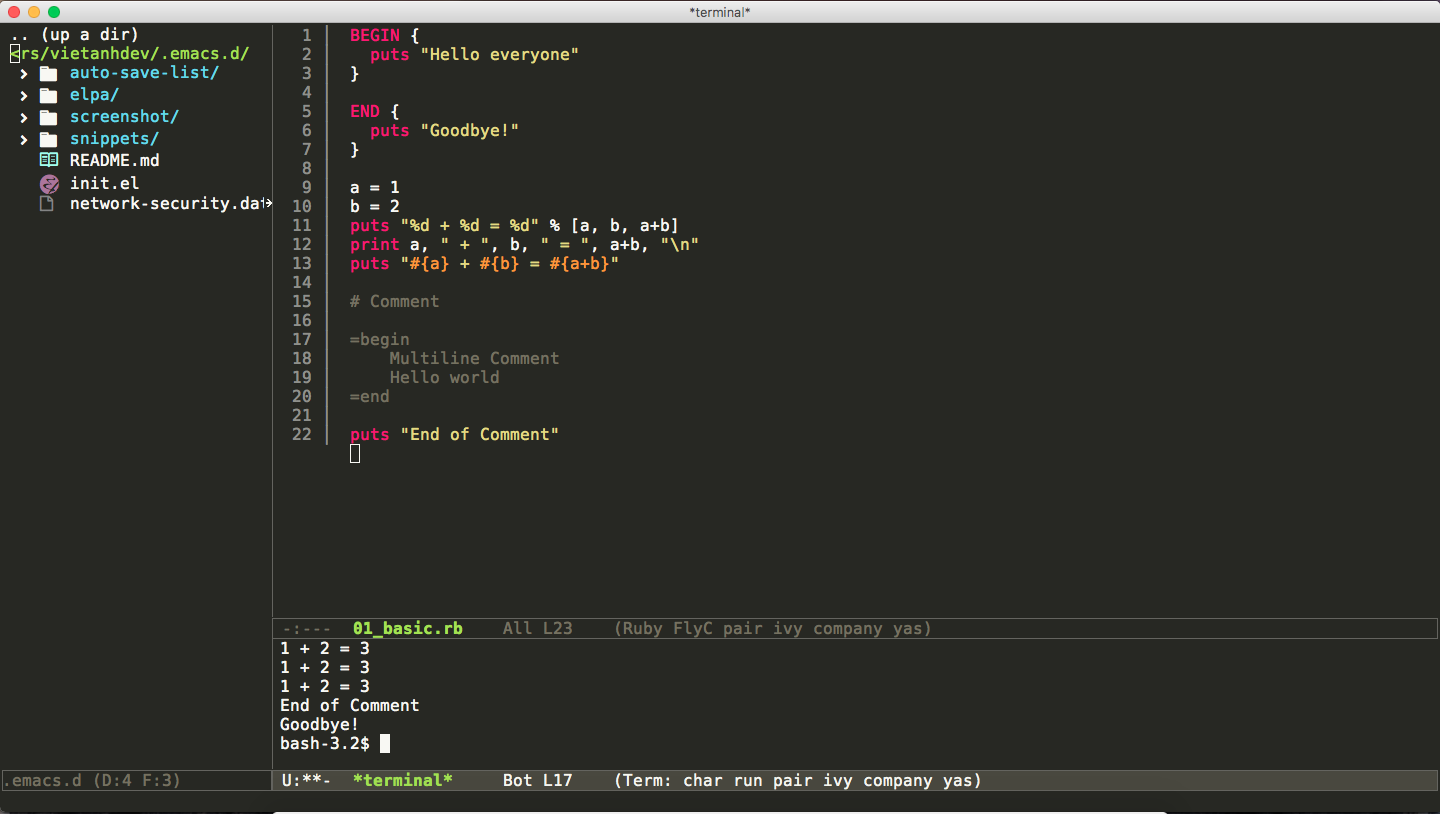
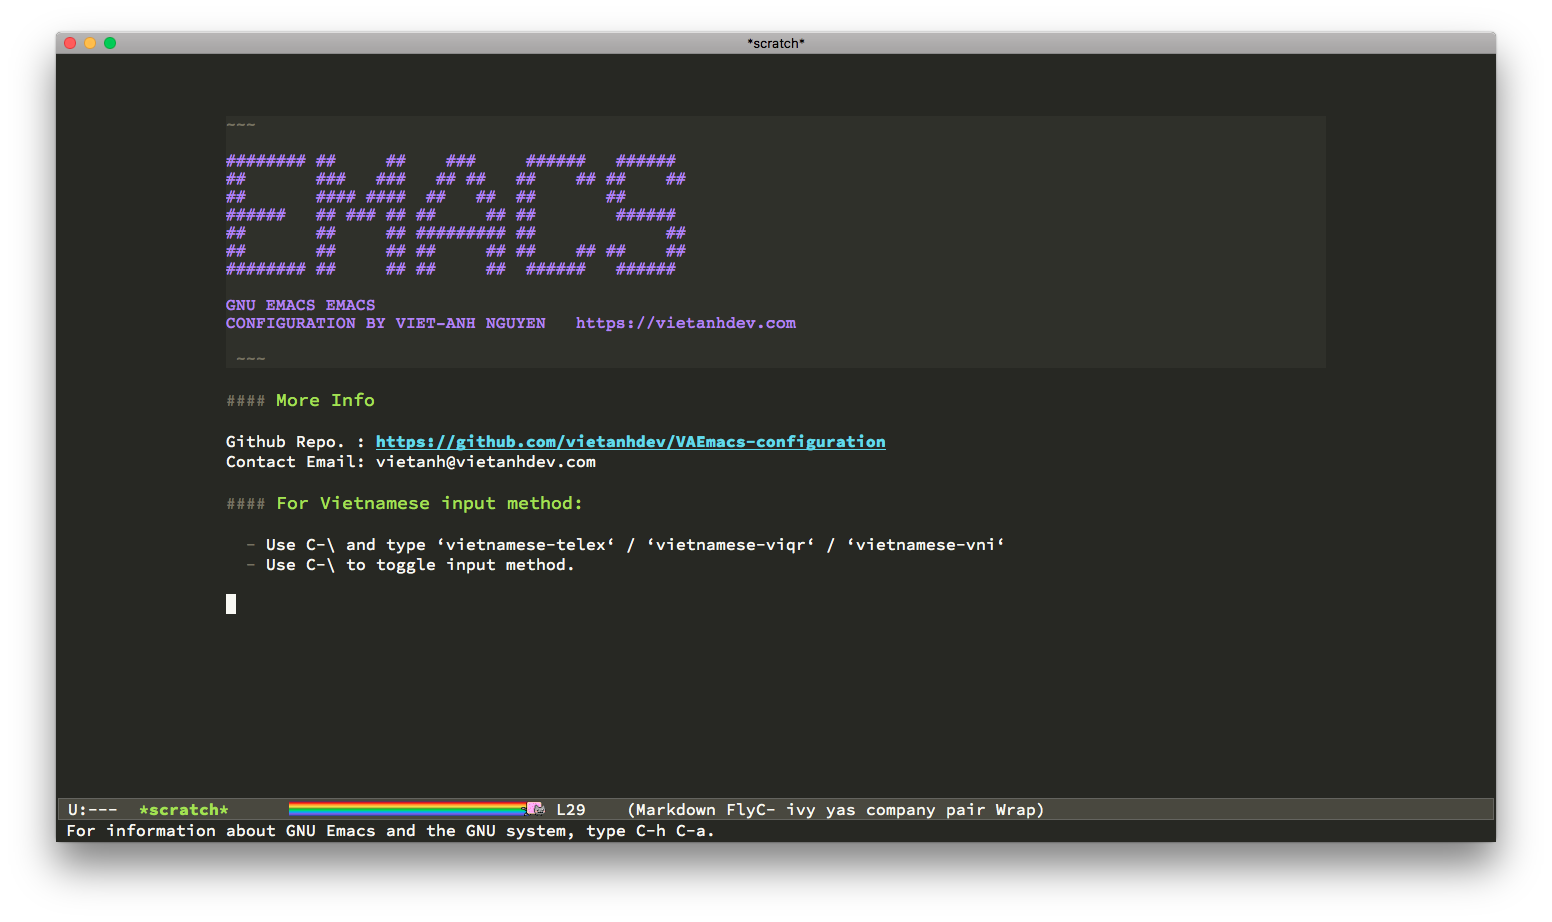
replace screenshot

Changed region(s): [[0.0, 0.0, 1.0, 1.0], [0.1562, 0.5835, 0.6562, 0.645], [0.125, 0.645, 0.1562, 0.6757]]

diff --git a/README.md b/README.md
@@ -60,3 +60,5 @@ M-x all-the-icons-install-fonts
 ## Screenshot
 
 ![Emacs](screenshot/screenshot.png)
+
+![Emacs](screenshot/screenshot2.png)
